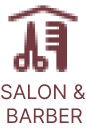
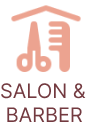
Style changes

diff --git a/appointment/src/styles/landingStyles.js b/appointment/src/styles/landingStyles.js
@@ -19,7 +19,7 @@ const sharedCardStyles = {
 export const headerStyles = StyleSheet.create({
   navBar: {
     margin: 0,
-    backgroundColor: appColors.primaryText,
+    backgroundColor: appColors.dusty,
     padding: '1rem',
     maxWidth: '100vw',
   },
@@ -27,7 +27,7 @@ export const headerStyles = StyleSheet.create({
     width: '28px',
     height: '28px',
     position: 'absolute',
-    backgroundColor: appColors.lightRed,
+    backgroundColor: appColors.secondaryDark,
   },
   navBarIcon: {
     width: '25px',
@@ -47,8 +47,7 @@ export const headerStyles = StyleSheet.create({
     color: appColors.primaryLight,
     padding: '1rem',
     ':hover': {
-      color: 'white',
-      backgroundColor: appColors.accent,
+      backgroundColor: appColors.secondaryDark,
       cursor: 'pointer',
     }
   },
@@ -63,7 +62,7 @@ export const homeStyles = StyleSheet.create({
   },
   homeCard: {
     ...sharedCardStyles,
-    backgroundColor: appColors.lightBlue,
+    backgroundColor: appColors.primaryLight,
   },
 });
 
@@ -73,7 +72,7 @@ export const servicesStyles = StyleSheet.create({
   },
   servicesCard: {
     ...sharedCardStyles,
-    backgroundColor: appColors.lightGreen,
+    backgroundColor: appColors.primaryLight,
   },
   gridContainer: {
     margin: '2rem 0 0 3rem',
@@ -85,9 +84,11 @@ export const servicesStyles = StyleSheet.create({
     width: '100px',
     height: 'auto',
     padding: '1rem',
+    border: `2px solid ${appColors.primaryLight}`,
+    borderRadius: '10px',
     ':hover': {
-      backgroundColor: appColors.primaryLight,
-      transform: 'scale(1.2)',
+      transform: 'scale(1.3)',
+      border: `2px solid ${appColors.primaryDark}`,
     },
   },
   gridContainerItem: {
@@ -101,7 +102,7 @@ export const aboutStyles = StyleSheet.create({
   },
   aboutCard: {
     ...sharedCardStyles,
-    backgroundColor: appColors.lightRed,
+    backgroundColor: appColors.primaryLight,
   },
 });
 
@@ -113,13 +114,14 @@ export const testimonialsStyles = StyleSheet.create({
     padding: '1rem 3rem',
     margin: '2rem',
     width: '70%',
+    border: 'none',
     borderRadius: '20px',
     backgroundColor: appColors.primaryLight,
   },
   testimonialsCardHeader: {
     borderRadius: '50%',
     padding: '.2rem',
-    backgroundColor: appColors.lightGreen,
+    backgroundColor: appColors.dusty,
   },
 });
 
@@ -127,7 +129,7 @@ export const footerStyles = StyleSheet.create({
   footerDiv: {
     margin: 0,
     color: appColors.white,
-    backgroundColor: appColors.primaryText,
+    backgroundColor: appColors.dusty,
     paddingTop: '1rem',
   },
   header: {

diff --git a/appointment/src/styles/authStyles.js b/appointment/src/styles/authStyles.js
@@ -8,7 +8,7 @@ const sharedInputStyles = {
   maxWidth: '280px',
   padding: '0.7rem',
   margin: '0.7rem',
-  borderRadius: '5px',
+  borderRadius: '10px',
 };
 
 export const authStyles = StyleSheet.create({
@@ -71,8 +71,10 @@ export const signStyles = StyleSheet.create({
     backgroundColor: appColors.accent,
     cursor: 'pointer',
     ':hover': {
-      backgroundColor: appColors.lightBlue,
+      backgroundColor: appColors.primaryLight,
       color: appColors.accent,
+      border: `3px solid ${appColors.accent}`,
+      fontWeight: 'bold',
     },
   },
   aLinks: {

diff --git a/appointment/src/styles/colors.js b/appointment/src/styles/colors.js
@@ -1,16 +1,17 @@
 export const appColors = {
   primary: '#ECA390',
-  primaryText: '#733A40',
+  primaryText: '#632626',
   primaryLight: '#FFF6EE',
   primaryDark: '#EDBA9F',
   primaryDarkTrans: '#EDBA9FD9',
   secondaryLight: '#F5E8DD',
   secondaryDark: '#C18F98',
-  accent: '#79658AD9',
-  lightBlue: '#B5C0D0',
+  accent: '#986D8ED9',
+  lightBlue: '#DAEAF1',
   lightGreen: '#B7CECE',
   lightRed: '#e8c5cf',
   darkGreen: '#3d8070',
   white: '#FFFFFF',
   black: '#000000',
+  dusty: '#985d6c',
 }
